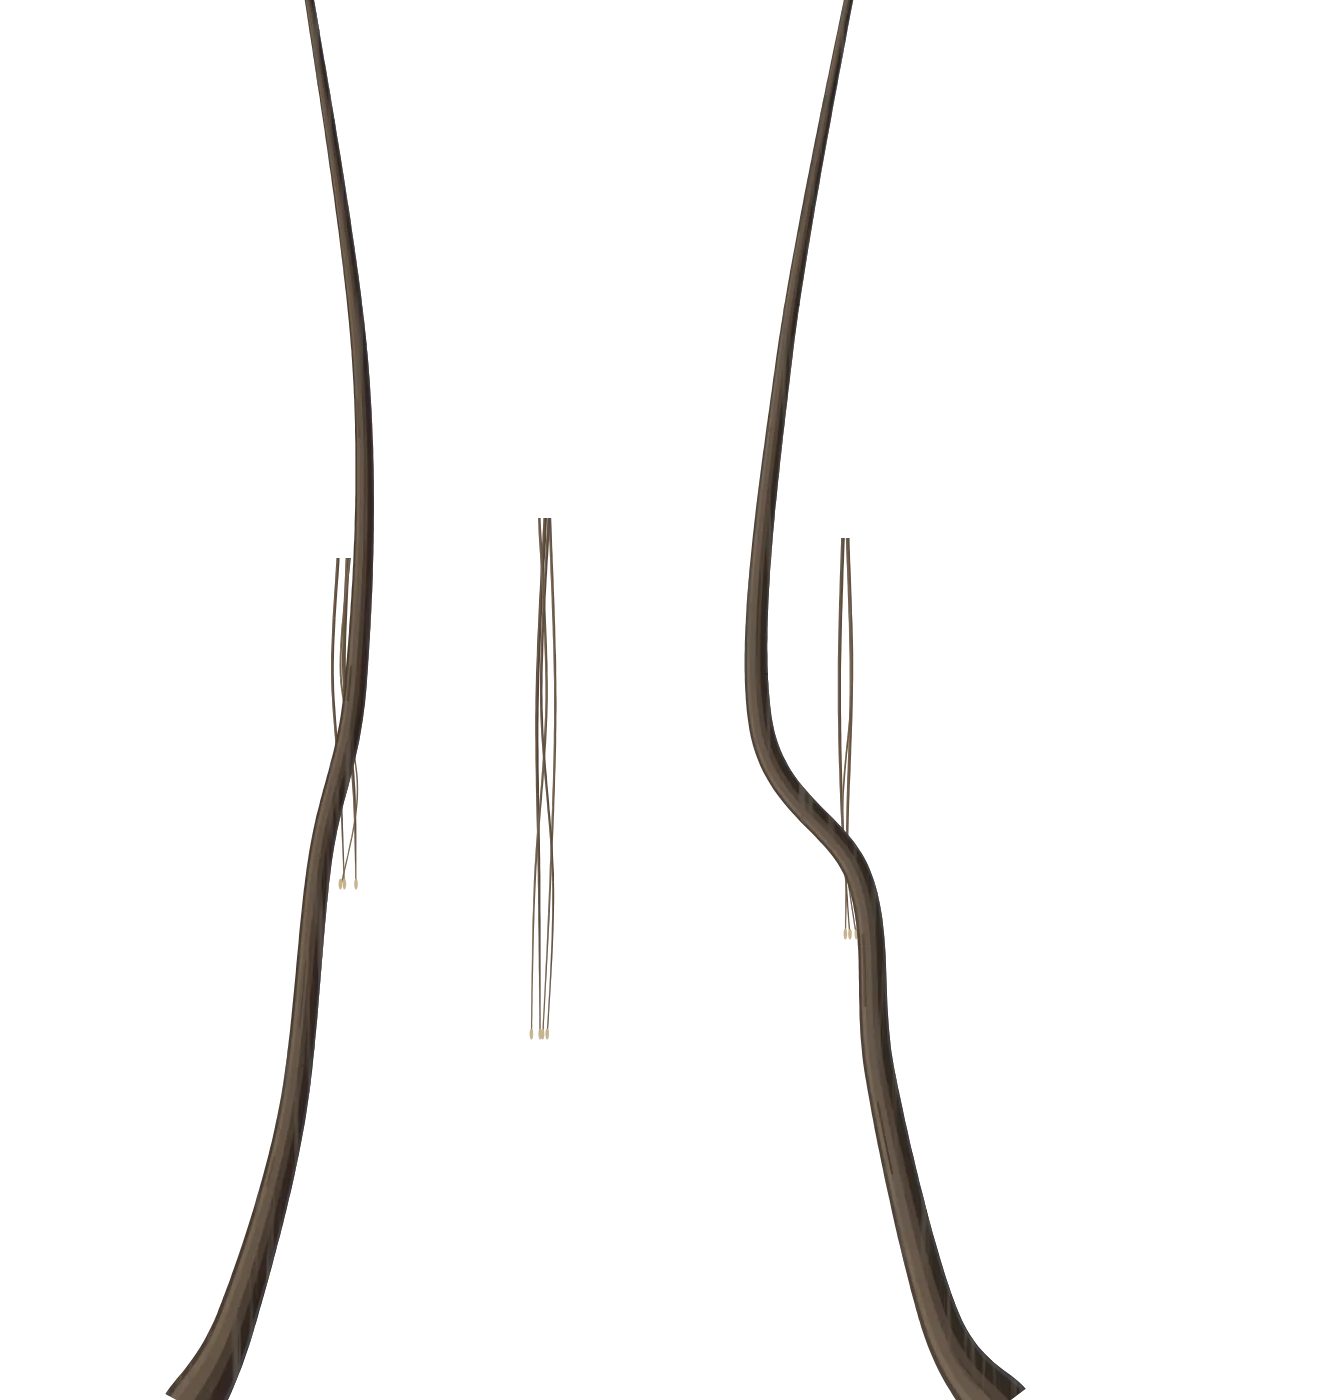
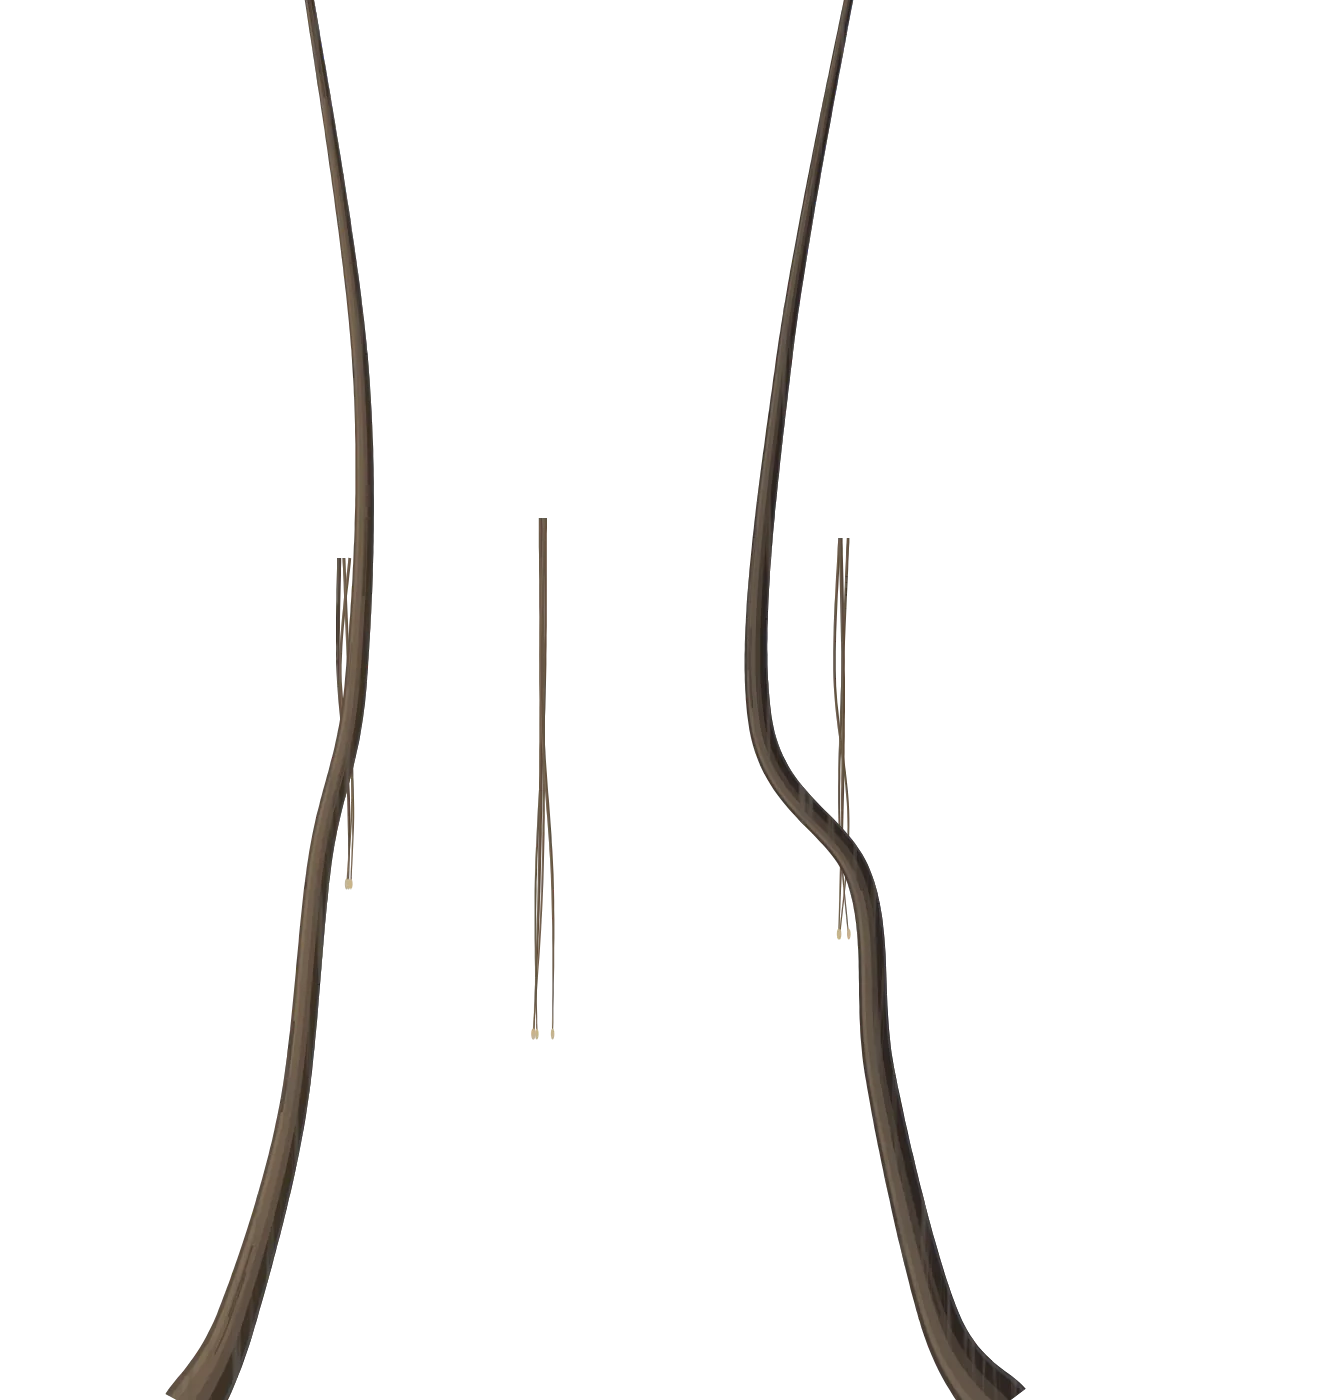
Banian : couronne de feuillage en haut, juste au bord de la page
Claude-Session: https://claude.ai/code/session_01Nt8rFWjdj5spwPEUakjUMS

diff --git a/index.html b/index.html
@@ -75,8 +75,8 @@ else if(a.matches('.pol-carte'))n='carte-ouverte';else if(h.indexOf('courbe/')==
         <a class="btn btn-blanc" href="#devis">Demander un devis</a>
         <a class="btn btn-contour" href="introduction.html">Essayer gratuitement <span class="btn-sous">· 10 min</span></a>
       </div>
-      <img class="banian banian-arriere" src="banian-arriere.webp?v=4" alt="" width="660" height="700" aria-hidden="true" decoding="async">
-      <img class="banian banian-avant" src="banian-avant.webp?v=4" alt="" width="660" height="700" aria-hidden="true" decoding="async">
+      <img class="banian banian-arriere" src="banian-arriere.webp?v=5" alt="" width="660" height="700" aria-hidden="true" decoding="async">
+      <img class="banian banian-avant" src="banian-avant.webp?v=5" alt="" width="660" height="700" aria-hidden="true" decoding="async">
       <figure class="polaroid" id="polaroid">
         <svg class="pol-racines" viewBox="-46 -6 262 278" preserveAspectRatio="none" aria-hidden="true"><g fill="none" stroke="#A07E60" stroke-linecap="round" stroke-linejoin="round"><path d="M6.0 135.6 L2.1 134.8 L-1.9 134.3 L-5.9 133.8 L-9.8 133.0 L-13.7 132.3 L-17.7 131.6 L-21.6 130.8 L-25.5 130.1 L-29.4 129.1 L-33.2 128.0 L-37.1 126.8" stroke-width="0.70"/><path d="M6.0 135.6 L2.1 134.8 L-1.9 134.3 L-5.9 133.8 L-9.8 133.0 L-13.7 132.3 L-17.7 131.6" stroke-width="1.56"/><path d="M6.0 135.6 L2.1 134.8 L-1.9 134.3 L-5.9 133.8" stroke-width="1.94"/><path d="M-5.9 133.8 L-8.4 130.7 L-10.9 127.5 L-13.2 124.3 L-15.3 120.9" stroke-width="0.70"/><path d="M-5.9 133.8 L-8.4 130.7 L-10.9 127.5" stroke-width="0.64"/><path d="M-5.9 133.8 L-8.4 130.7" stroke-width="0.80"/><path d="M-5.9 133.8 L-9.8 134.7 L-13.7 135.1 L-17.7 135.6 L-21.7 136.2 L-25.6 136.9 L-29.6 137.4" stroke-width="0.70"/><path d="M-5.9 133.8 L-9.8 134.7 L-13.7 135.1 L-17.7 135.6" stroke-width="0.64"/><path d="M-5.9 133.8 L-9.8 134.7" stroke-width="0.80"/><path d="M-9.8 134.7 L-13.4 133.0 L-17.2 131.8" stroke-width="0.70"/><path d="M-9.8 134.7 L-13.4 133.0" stroke-width="0.30"/><path d="M-9.8 134.7 L-13.4 133.0" stroke-width="0.38"/><path d="M-5.9 133.8 L-9.7 135.0 L-13.5 136.0 L-17.4 137.2 L-21.0 138.8 L-24.5 140.7" stroke-width="0.70"/><path d="M-5.9 133.8 L-9.7 135.0 L-13.5 136.0" stroke-width="0.64"/><path d="M-5.9 133.8 L-9.7 135.0" stroke-width="0.80"/><path d="M-9.7 135.0 L-13.7 135.1" stroke-width="0.70"/><path d="M-9.7 135.0 L-13.7 135.1" stroke-width="0.30"/><path d="M-9.7 135.0 L-13.7 135.1" stroke-width="0.37"/><path d="M6.0 169.5 L2.1 168.6 L-1.8 167.9 L-5.8 167.4 L-9.8 167.0 L-13.8 167.3 L-17.7 168.0 L-21.5 169.1 L-25.3 170.5 L-28.9 172.3 L-32.4 174.2" stroke-width="0.70"/><path d="M6.0 169.5 L2.1 168.6 L-1.8 167.9 L-5.8 167.4 L-9.8 167.0 L-13.8 167.3 L-17.7 168.0" stroke-width="1.39"/><path d="M6.0 169.5 L2.1 168.6 L-1.8 167.9 L-5.8 167.4" stroke-width="1.72"/><path d="M-17.7 168.0 L-21.6 166.9 L-25.4 165.7 L-29.1 164.2 L-32.6 162.3 L-36.0 160.2" stroke-width="0.70"/><path d="M-17.7 168.0 L-21.6 166.9 L-25.4 165.7" stroke-width="0.35"/><path d="M-17.7 168.0 L-21.6 166.9" stroke-width="0.43"/><path d="M6.0 203.4 L2.0 202.9 L-1.9 202.5 L-5.9 202.2 L-9.9 201.9 L-13.9 201.7 L-17.9 201.5 L-21.9 201.2 L-25.9 201.1 L-29.9 200.8 L-33.8 200.1 L-37.8 199.3 L-41.6 198.2" stroke-width="0.70"/><path d="M6.0 203.4 L2.0 202.9 L-1.9 202.5 L-5.9 202.2 L-9.9 201.9 L-13.9 201.7 L-17.9 201.5 L-21.9 201.2" stroke-width="1.35"/><path d="M6.0 203.4 L2.0 202.9 L-1.9 202.5 L-5.9 202.2" stroke-width="1.68"/><path d="M-9.9 201.9 L-11.9 198.4 L-13.8 194.9 L-15.4 191.3 L-16.8 187.5 L-18.0 183.7" stroke-width="0.70"/><path d="M-9.9 201.9 L-11.9 198.4 L-13.8 194.9" stroke-width="0.52"/><path d="M-9.9 201.9 L-11.9 198.4" stroke-width="0.64"/><path d="M-11.9 198.4 L-15.1 196.1" stroke-width="0.70"/><path d="M-11.9 198.4 L-15.1 196.1" stroke-width="0.24"/><path d="M-11.9 198.4 L-15.1 196.1" stroke-width="0.29"/><path d="M-11.9 198.4 L-14.8 195.7" stroke-width="0.70"/><path d="M-11.9 198.4 L-14.8 195.7" stroke-width="0.24"/><path d="M-11.9 198.4 L-14.8 195.7" stroke-width="0.29"/><path d="M-11.9 198.4 L-15.7 197.1 L-19.4 195.6" stroke-width="0.70"/><path d="M-11.9 198.4 L-15.7 197.1" stroke-width="0.24"/><path d="M-11.9 198.4 L-15.7 197.1" stroke-width="0.29"/><path d="M-21.9 201.2 L-25.0 203.7 L-27.7 206.7 L-30.2 209.8 L-32.4 213.2" stroke-width="0.70"/><path d="M-21.9 201.2 L-25.0 203.7 L-27.7 206.7" stroke-width="0.34"/><path d="M-21.9 201.2 L-25.0 203.7" stroke-width="0.43"/><path d="M164.0 126.6 L168.0 127.1 L171.8 128.3 L175.4 130.0 L178.5 132.5 L181.0 135.7 L182.6 139.3 L183.9 143.1 L185.3 146.9 L186.3 150.7" stroke-width="0.70"/><path d="M164.0 126.6 L168.0 127.1 L171.8 128.3 L175.4 130.0 L178.5 132.5 L181.0 135.7" stroke-width="1.33"/><path d="M164.0 126.6 L168.0 127.1 L171.8 128.3" stroke-width="1.66"/><path d="M178.5 132.5 L177.3 136.3 L176.4 140.2 L175.7 144.2 L175.1 148.1" stroke-width="0.70"/><path d="M178.5 132.5 L177.3 136.3 L176.4 140.2" stroke-width="0.44"/><path d="M178.5 132.5 L177.3 136.3" stroke-width="0.55"/><path d="M175.4 130.0 L175.0 134.0 L174.6 138.0 L174.1 141.9" stroke-width="0.70"/><path d="M175.4 130.0 L175.0 134.0" stroke-width="0.51"/><path d="M175.4 130.0 L175.0 134.0" stroke-width="0.64"/><path d="M164.0 162.7 L168.0 162.5 L172.0 162.6 L176.0 162.6 L180.0 162.8 L183.9 163.4 L187.8 164.3 L191.6 165.6 L195.3 167.1 L198.7 169.3" stroke-width="0.70"/><path d="M164.0 162.7 L168.0 162.5 L172.0 162.6 L176.0 162.6 L180.0 162.8 L183.9 163.4" stroke-width="1.22"/><path d="M164.0 162.7 L168.0 162.5 L172.0 162.6" stroke-width="1.52"/><path d="M176.0 162.6 L180.0 162.6 L184.0 162.3 L188.0 161.9" stroke-width="0.70"/><path d="M176.0 162.6 L180.0 162.6" stroke-width="0.47"/><path d="M176.0 162.6 L180.0 162.6" stroke-width="0.58"/><path d="M180.0 162.8 L183.9 162.0 L187.8 161.4" stroke-width="0.70"/><path d="M180.0 162.8 L183.9 162.0" stroke-width="0.40"/><path d="M180.0 162.8 L183.9 162.0" stroke-width="0.50"/><path d="M164.0 198.9 L167.8 200.0 L171.7 201.0 L175.6 202.1 L179.4 203.3 L183.1 204.8 L186.7 206.4 L190.3 208.3 L193.5 210.6 L196.4 213.4" stroke-width="0.70"/><path d="M164.0 198.9 L167.8 200.0 L171.7 201.0 L175.6 202.1 L179.4 203.3 L183.1 204.8" stroke-width="1.46"/><path d="M164.0 198.9 L167.8 200.0 L171.7 201.0" stroke-width="1.82"/><path d="M186.7 206.4 L186.8 210.4 L187.3 214.4 L187.8 218.3" stroke-width="0.70"/><path d="M186.7 206.4 L186.8 210.4" stroke-width="0.32"/><path d="M186.7 206.4 L186.8 210.4" stroke-width="0.40"/><path d="M30.6 220.0 L31.9 223.8 L33.1 227.6 L34.7 231.3 L36.4 234.9 L38.1 238.5 L40.0 242.0 L42.4 245.3" stroke-width="0.70"/><path d="M30.6 220.0 L31.9 223.8 L33.1 227.6 L34.7 231.3 L36.4 234.9" stroke-width="1.25"/><path d="M30.6 220.0 L31.9 223.8 L33.1 227.6" stroke-width="1.55"/><path d="M36.4 234.9 L40.4 235.2 L44.3 235.7 L48.2 236.8" stroke-width="0.70"/><path d="M36.4 234.9 L40.4 235.2" stroke-width="0.34"/><path d="M36.4 234.9 L40.4 235.2" stroke-width="0.43"/><path d="M38.1 238.5 L42.0 239.3 L45.9 240.3 L49.7 241.4" stroke-width="0.70"/><path d="M38.1 238.5 L42.0 239.3" stroke-width="0.26"/><path d="M38.1 238.5 L42.0 239.3" stroke-width="0.32"/><path d="M71.4 220.0 L72.3 223.9 L73.0 227.8 L73.5 231.8 L73.5 235.8 L72.7 239.7 L71.3 243.5 L69.5 247.1 L67.6 250.6" stroke-width="0.70"/><path d="M71.4 220.0 L72.3 223.9 L73.0 227.8 L73.5 231.8 L73.5 235.8" stroke-width="1.34"/><path d="M71.4 220.0 L72.3 223.9 L73.0 227.8" stroke-width="1.66"/><path d="M73.5 231.8 L69.7 233.0 L66.1 234.7 L62.8 237.0 L60.1 239.9" stroke-width="0.70"/><path d="M73.5 231.8 L69.7 233.0 L66.1 234.7" stroke-width="0.49"/><path d="M73.5 231.8 L69.7 233.0" stroke-width="0.61"/><path d="M107.1 220.0 L107.5 224.0 L107.5 228.0 L107.5 232.0 L107.3 236.0 L107.2 240.0 L107.4 244.0 L107.8 247.9 L108.2 251.9" stroke-width="0.70"/><path d="M107.1 220.0 L107.5 224.0 L107.5 228.0 L107.5 232.0 L107.3 236.0" stroke-width="1.22"/><path d="M107.1 220.0 L107.5 224.0 L107.5 228.0" stroke-width="1.51"/><path d="M107.2 240.0 L104.4 242.9 L101.5 245.6 L98.5 248.2" stroke-width="0.70"/><path d="M107.2 240.0 L104.4 242.9" stroke-width="0.30"/><path d="M107.2 240.0 L104.4 242.9" stroke-width="0.37"/><path d="M144.5 220.0 L144.6 224.0 L144.6 228.0 L144.4 232.0 L144.4 236.0 L144.7 240.0 L145.0 244.0 L145.4 247.9 L145.7 251.9" stroke-width="0.70"/><path d="M144.5 220.0 L144.6 224.0 L144.6 228.0 L144.4 232.0 L144.4 236.0" stroke-width="1.35"/><path d="M144.5 220.0 L144.6 224.0 L144.6 228.0" stroke-width="1.68"/><path d="M144.4 232.0 L142.9 235.7 L142.0 239.6 L141.1 243.5" stroke-width="0.70"/><path d="M144.4 232.0 L142.9 235.7" stroke-width="0.50"/><path d="M144.4 232.0 L142.9 235.7" stroke-width="0.62"/></g></svg>
         <button type="button" class="pol-carte" aria-label="Paul.M — Paul Moreaux, fondateur de Frenglais : agrandir">
